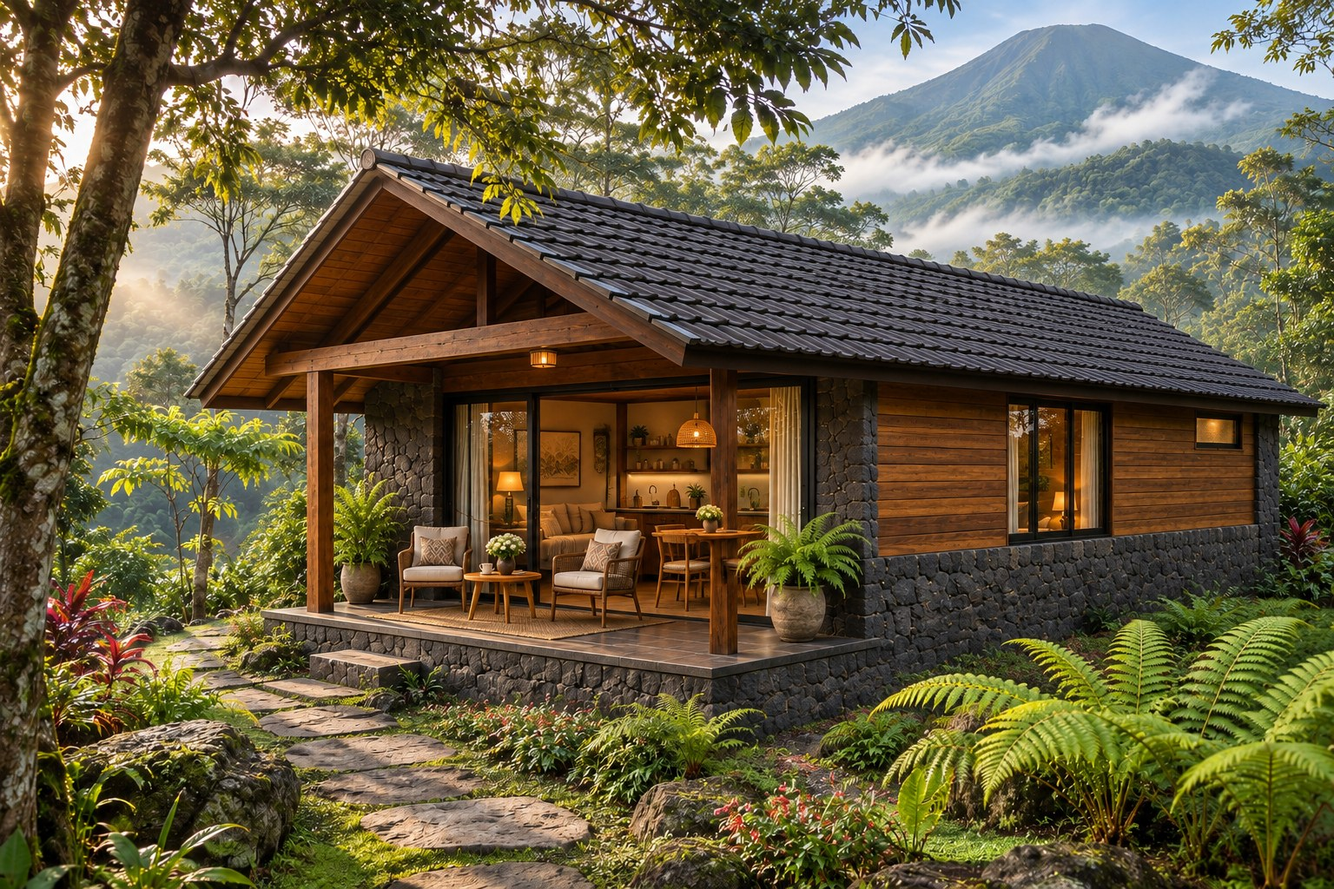
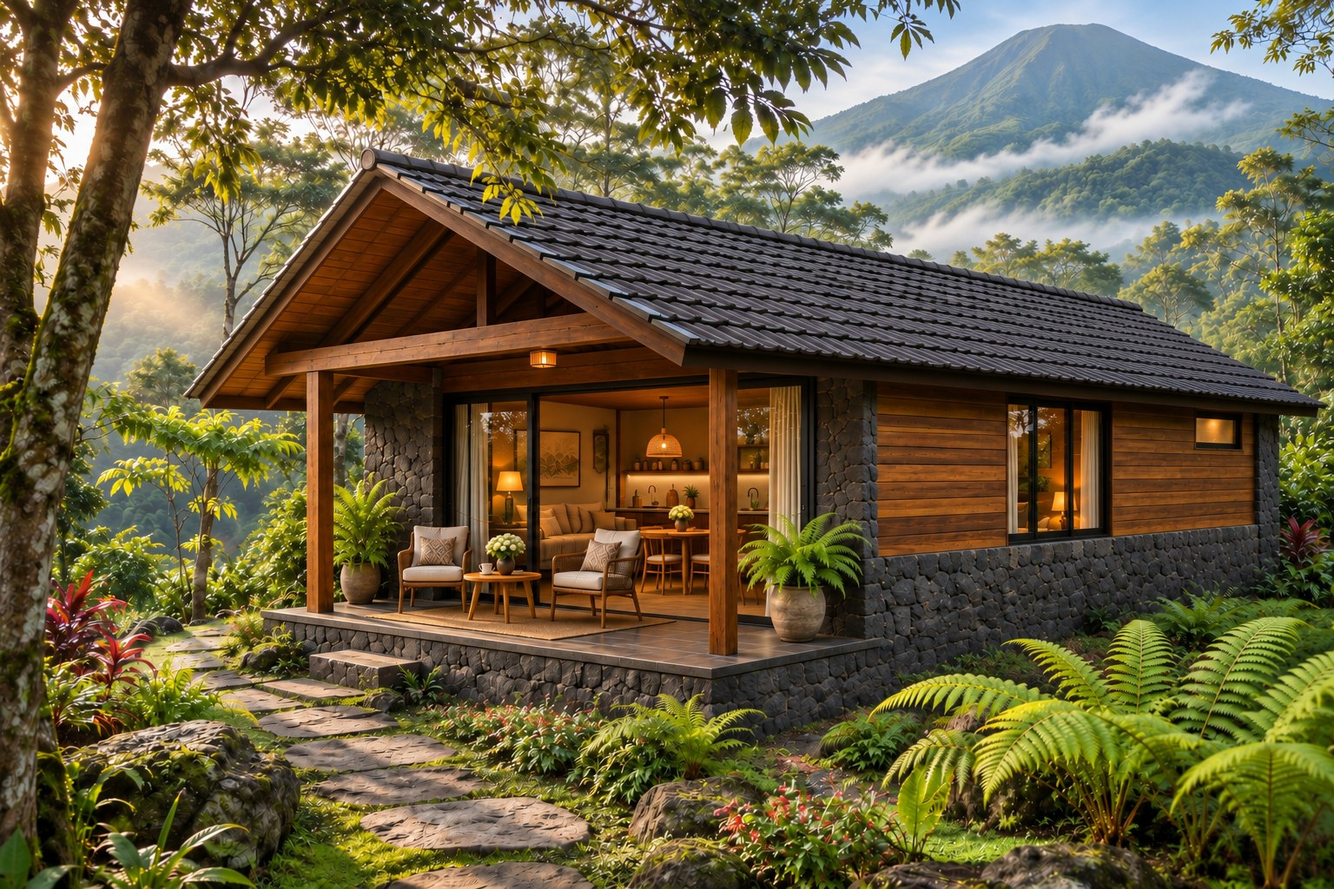
Refine Garden Cabin arrival and privacy; correct Mountain Cabin pendant

diff --git a/residences.html b/residences.html
@@ -1,1 +1,1 @@
-<!doctype html><html lang="en"><head><meta charset="utf-8"><meta name="viewport" content="width=device-width,initial-scale=1"><title>Cabins, lodges &amp; estates | Mount Paradise, Trawas</title><meta name="description" content="Explore eight private residence models across Cabins, Lodges and Estates at Mount Paradise. Ownership enquiries: sales@mountparadisejava.com."><meta name="theme-color" content="#20362d"><meta property="og:site_name" content="Mount Paradise"><meta property="og:title" content="Cabins, lodges &amp; estates | Mount Paradise"><meta property="og:description" content="Explore eight private residence models across Cabins, Lodges and Estates at Mount Paradise. Ownership enquiries: sales@mountparadisejava.com."><meta property="og:type" content="website"><meta property="og:image" content="https://mountparadisejava.com/assets/mount-paradise-social.jpg?v=5c3ecd9ac6cd"><meta property="og:image:secure_url" content="https://mountparadisejava.com/assets/mount-paradise-social.jpg?v=5c3ecd9ac6cd"><meta property="og:image:type" content="image/jpeg"><meta property="og:image:width" content="1200"><meta property="og:image:height" content="630"><meta property="og:image:alt" content="Mount Paradise Main Lodge, gardens and pool in the mountains of East Java"><meta property="og:url" content="https://mountparadisejava.com/residences.html"><meta name="twitter:card" content="summary_large_image"><meta name="twitter:title" content="Cabins, lodges &amp; estates | Mount Paradise"><meta name="twitter:description" content="Explore eight private residence models across Cabins, Lodges and Estates at Mount Paradise. Ownership enquiries: sales@mountparadisejava.com."><meta name="twitter:image" content="https://mountparadisejava.com/assets/mount-paradise-social.jpg?v=5c3ecd9ac6cd"><link rel="canonical" href="https://mountparadisejava.com/residences.html"><link rel="icon" href="assets/mark.svg" type="image/svg+xml"><link rel="stylesheet" href="styles.css?v=20261120-anchor"><script src="site.js?v=20261120-anchor" defer></script></head><body id="top" class="land-page"><a class="skip" href="#main">Skip to content</a><header><a class="brand" href="index.html" aria-label="Mount Paradise home"><svg viewBox="0 0 80 34" aria-hidden="true"><path d="M3 31 29 4 43 21 53 10 77 31M17 25 29 16 37 21"/></svg><span>MOUNT PARADISE<small>TRAWAS · EAST JAVA</small></span></a><button class="menu-toggle" aria-expanded="false" aria-controls="navigation">Menu <span aria-hidden="true">☰</span></button><nav id="navigation" aria-label="Main navigation"><details class="nav-group"><summary>Discover</summary><div class="nav-dropdown"><a href="index.html">Home</a><a href="discover.html">The Mount Paradise story</a><a href="arvorest-woods.html">Arvorest Woods</a></div></details><a href="main-lodge.html" >Main Lodge</a><a href="occasions.html" >Occasions</a><a href="residences.html" aria-current="page">Residences</a><a href="botanical-gardens.html" >Arboretum & Gardens</a><a href="wellness.html" >Wellness & Recreation</a><a href="800-club.html" >800 Club</a></nav></header><main id="main"><section class="page-heading"><p class="eyebrow">Private residences / Ownership collection</p><h1>Your place<br><em>in the mountains.</em></h1><p>Cabins. Lodges. Estates. Eight ways to make Mount Paradise your own.</p></section><section class="section collection-intro" id="discover"><div class="split"><h2>Choose your<br>way of living.</h2><p>Explore the residence models offered for ownership, from an intimate cabin to a generous private estate. Each architectural concept shares warm timber, volcanic stone and a private relationship with the garden. Final layouts, specifications and availability are discussed individually with our sales team.</p></div><div class="catalogue-tabs" aria-label="Residence categories"><a href="#cabins">Cabins <small>2 models</small></a><a href="#lodges">Lodges <small>4 models</small></a><a href="#estates">Estates <small>2 models</small></a></div><div class="model-menu"><a href="#mountain-cabin"><img src="assets/mountain-cabin.jpg?v=88aa7ac93ce2" alt="Mountain Cabin" loading="lazy"><strong>Mountain Cabin</strong><small>Cabins · Single-storey one-bedroom cabin</small></a><a href="#fern-retreat"><img src="assets/fern-retreat.jpg?v=9208c062b559" alt="Garden Cabin" loading="lazy"><strong>Garden Cabin</strong><small>Cabins · Single-storey one-bedroom garden cabin</small></a><a href="#garden-lodge"><img src="assets/signature-lodge.jpg?v=3d925ca0ffd6" alt="Garden Lodge" loading="lazy"><strong>Garden Lodge</strong><small>Lodges · Single-storey garden-facing home</small></a><a href="#orchard-family"><img src="assets/orchard-family.jpg?v=93da63747aae" alt="Courtyard Lodge" loading="lazy"><strong>Courtyard Lodge</strong><small>Lodges · Low courtyard arrangement with connected rooflines</small></a><a href="#vista-lodge"><img src="assets/vista.jpg?v=5d9e88c52cb4" alt="Vista Lodge" loading="lazy"><strong>Vista Lodge</strong><small>Lodges · Broad horizontal residence</small></a><a href="#forest-lodge"><img src="assets/forest-cinematic.jpg?v=696eef8ec716" alt="Forest Lodge" loading="lazy"><strong>Forest Lodge</strong><small>Lodges · Two-storey lodge with upper balcony</small></a><a href="#ridge-reserve"><img src="assets/ridge-reserve.jpg?v=6df47c1a2cef" alt="Ridge Estate" loading="lazy"><strong>Ridge Estate</strong><small>Estates · Split-level residence with a tall gable and upper balcony</small></a><a href="#paradise-estate"><img src="assets/paradise-estate.jpg?v=f716ccda8613" alt="Paradise Estate" loading="lazy"><strong>Paradise Estate</strong><small>Estates · Multiple connected residential wings with varied roof heights</small></a></div></section><section class="section collection-group" id="cabins"><p class="eyebrow">cabins</p><h2>A simpler foothold.</h2><p class="collection-lead">Compact private escapes with a garden and sheltered porch.</p><article class="collection-lodge" id="mountain-cabin"><figure class=""><a href="assets/mountain-cabin.jpg?v=88aa7ac93ce2" data-lightbox aria-label="Enlarge: Mountain Cabin"><img src="assets/mountain-cabin.jpg?v=88aa7ac93ce2" alt="Mountain Cabin" loading="lazy" width="1536" height="1024"></a></figure><div class="collection-details"><div><h3>Mountain Cabin</h3><p>A warm timber and volcanic-stone cabin with room to settle in. The enlarged concept brings together a cozy living area, kitchenette and small dining table, with a separate bedroom and enclosed bathroom behind. A sheltered porch keeps everyday life close to the mountain garden.</p><a class="text-link" href="mailto:sales@mountparadisejava.com?subject=Mount%20Paradise%20%7C%20Mountain%20Cabin">Enquire about Mountain Cabin</a></div><dl><div><dt>Architecture</dt><dd>Single-storey one-bedroom cabin</dd></div><div><dt>Garden</dt><dd>A small private fern garden</dd></div><div><dt>Pool</dt><dd>No private pool; shared swimming planned at the Main Lodge, subject to membership</dd></div><div><dt>Outdoor living</dt><dd>Sheltered porch with two lounge chairs</dd></div></dl></div></article><article class="collection-lodge" id="fern-retreat"><figure class=""><a href="assets/fern-retreat.jpg?v=9208c062b559" data-lightbox aria-label="Enlarge: Garden Cabin"><img src="assets/fern-retreat.jpg?v=9208c062b559" alt="Garden Cabin" loading="lazy" width="1536" height="1024"></a></figure><div class="collection-details"><div><h3>Garden Cabin</h3><p>A generous veranda and private lawn shape this light-filled garden home. The refreshed concept makes room for an open living area, a compact kitchen and indoor dining, with a private bedroom behind a full-height wall and an enclosed bathroom reached from an internal passage. The bedroom sits within a volcanic-stone enclosure on the left, while the garden path leads directly to the living entrance on the right. Warm timber and deep eaves preserve its intimate garden character.</p><a class="text-link" href="mailto:sales@mountparadisejava.com?subject=Mount%20Paradise%20%7C%20Garden%20Cabin">Enquire about Garden Cabin</a></div><dl><div><dt>Architecture</dt><dd>Single-storey one-bedroom garden cabin</dd></div><div><dt>Garden</dt><dd>Private lawn and a layered fern garden</dd></div><div><dt>Pool</dt><dd>Garden living without a pool in this concept</dd></div><div><dt>Outdoor living</dt><dd>Broad veranda with a lounge nook and outdoor table</dd></div></dl></div></article></section><section class="section collection-group" id="lodges"><p class="eyebrow">lodges</p><h2>Room to make it yours.</h2><p class="collection-lead">Garden, forest and courtyard homes with space for family life and entertaining.</p><article class="collection-lodge" id="garden-lodge"><figure class=""><a href="assets/signature-lodge.jpg?v=3d925ca0ffd6" data-lightbox aria-label="Enlarge: Garden Lodge"><img src="assets/signature-lodge.jpg?v=3d925ca0ffd6" alt="Garden Lodge" loading="lazy" width="1536" height="1024"></a></figure><div class="collection-details"><div><h3>Garden Lodge</h3><p>A broad sheltered veranda connects the living room to a private garden and pool. Natural stone, warm timber and deep eaves give this home its grounded character.</p><a class="text-link" href="mailto:sales@mountparadisejava.com?subject=Mount%20Paradise%20%7C%20Garden%20Lodge">Enquire about Garden Lodge</a></div><dl><div><dt>Architecture</dt><dd>Single-storey garden-facing home</dd></div><div><dt>Garden</dt><dd>Private planted garden and pool terrace</dd></div><div><dt>Pool</dt><dd>Private pool</dd></div><div><dt>Outdoor living</dt><dd>BBQ dining terrace</dd></div></dl></div></article><article class="collection-lodge" id="orchard-family"><figure class=""><a href="assets/orchard-family.jpg?v=93da63747aae" data-lightbox aria-label="Enlarge: Courtyard Lodge"><img src="assets/orchard-family.jpg?v=93da63747aae" alt="Courtyard Lodge" loading="lazy" width="1536" height="1024"></a></figure><div class="collection-details"><div><h3>Courtyard Lodge</h3><p>Two low wings embrace an open lawn, keeping the garden central to family life. A covered dining terrace sits between the living spaces, with a pool to one side and fruit trees along the borders.</p><a class="text-link" href="mailto:sales@mountparadisejava.com?subject=Mount%20Paradise%20%7C%20Courtyard%20Lodge">Enquire about Courtyard Lodge</a></div><dl><div><dt>Architecture</dt><dd>Low courtyard arrangement with connected rooflines</dd></div><div><dt>Garden</dt><dd>Broad courtyard lawn framed by fruit trees</dd></div><div><dt>Pool</dt><dd>A compact private swimming pool</dd></div><div><dt>Outdoor living</dt><dd>Dedicated BBQ grill, preparation counter and covered dining for six</dd></div></dl></div></article><article class="collection-lodge" id="vista-lodge"><figure class=""><a href="assets/vista.jpg?v=5d9e88c52cb4" data-lightbox aria-label="Enlarge: Vista Lodge"><img src="assets/vista.jpg?v=5d9e88c52cb4" alt="Vista Lodge" loading="lazy" width="1536" height="1024"></a></figure><div class="collection-details"><div><h3>Vista Lodge</h3><p>A long frontage and generous veranda place the outlook at the center of the home. The pool and garden run alongside the terrace, with room for a dedicated BBQ area and outdoor dining.</p><a class="text-link" href="mailto:sales@mountparadisejava.com?subject=Mount%20Paradise%20%7C%20Vista%20Lodge">Enquire about Vista Lodge</a></div><dl><div><dt>Architecture</dt><dd>Broad horizontal residence</dd></div><div><dt>Garden</dt><dd>Generous view-facing garden and terrace</dd></div><div><dt>Pool</dt><dd>Long private pool</dd></div><div><dt>Outdoor living</dt><dd>Dedicated BBQ and outdoor dining area</dd></div></dl></div></article><article class="collection-lodge" id="forest-lodge"><figure class=""><a href="assets/forest-cinematic.jpg?v=696eef8ec716" data-lightbox aria-label="Enlarge: Forest Lodge"><img src="assets/forest-cinematic.jpg?v=696eef8ec716" alt="Forest Lodge" loading="lazy" width="1536" height="1024"></a></figure><div class="collection-details"><div><h3>Forest Lodge</h3><p>A more vertical home among the trees. An upper balcony and a sheltered garden level offer separate places to gather and retreat, with a plunge pool within the planting.</p><a class="text-link" href="mailto:sales@mountparadisejava.com?subject=Mount%20Paradise%20%7C%20Forest%20Lodge">Enquire about Forest Lodge</a></div><dl><div><dt>Architecture</dt><dd>Two-storey lodge with upper balcony</dd></div><div><dt>Garden</dt><dd>Terraced garden with shaded corners</dd></div><div><dt>Pool</dt><dd>Private plunge pool</dd></div><div><dt>Outdoor living</dt><dd>Sheltered garden dining</dd></div></dl></div></article></section><section class="section collection-group" id="estates"><p class="eyebrow">estates</p><h2>A more expansive world.</h2><p class="collection-lead">Generous homes and grounds for longer stays and bringing everyone together.</p><article class="collection-lodge" id="ridge-reserve"><figure class=""><a href="assets/ridge-reserve.jpg?v=6df47c1a2cef" data-lightbox aria-label="Enlarge: Ridge Estate"><img src="assets/ridge-reserve.jpg?v=6df47c1a2cef" alt="Ridge Estate" loading="lazy" width="1536" height="1024"></a></figure><div class="collection-details"><div><h3>Ridge Estate</h3><p>A tall glazed gable and a lower stone wing create a more expressive mountain home. An upper balcony overlooks the grounds, while the main terrace opens to a generous lawn and a long pool facing the landscape.</p><a class="text-link" href="mailto:sales@mountparadisejava.com?subject=Mount%20Paradise%20%7C%20Ridge%20Estate">Enquire about Ridge Estate</a></div><dl><div><dt>Architecture</dt><dd>Split-level residence with a tall gable and upper balcony</dd></div><div><dt>Garden</dt><dd>Generous landscaped yard with distinct lounging and lawn areas</dd></div><div><dt>Pool</dt><dd>An elongated pool along the view terrace</dd></div><div><dt>Outdoor living</dt><dd>Covered outdoor kitchen with a built-in BBQ grill and dining for eight</dd></div></dl></div></article><article class="collection-lodge" id="paradise-estate"><figure class=""><a href="assets/paradise-estate.jpg?v=f716ccda8613" data-lightbox aria-label="Enlarge: Paradise Estate"><img src="assets/paradise-estate.jpg?v=f716ccda8613" alt="Paradise Estate" loading="lazy" width="1536" height="1024"></a></figure><div class="collection-details"><div><h3>Paradise Estate</h3><p>A private estate conceived around gathering, with substantial residential wings and a shared living hall. The grounds become a sequence of outdoor rooms: a broad lawn, a pool terrace, a dining space and a separate fire lounge.</p><a class="text-link" href="mailto:sales@mountparadisejava.com?subject=Mount%20Paradise%20%7C%20Paradise%20Estate">Enquire about Paradise Estate</a></div><dl><div><dt>Architecture</dt><dd>Multiple connected residential wings with varied roof heights</dd></div><div><dt>Garden</dt><dd>Expansive private grounds with a large usable lawn and mature planting</dd></div><div><dt>Pool</dt><dd>A long private pool with space to relax alongside</dd></div><div><dt>Outdoor living</dt><dd>Full outdoor kitchen with BBQ grill, dining for twelve and a separate fire lounge</dd></div></dl></div></article></section><section class="section contact-band"><div><p class="eyebrow">Residence ownership</p><h2>Find your<br>mountain home.</h2><p>For model availability, specifications and ownership enquiries, speak with the sales team.</p></div><div><a class="text-link" href="mailto:sales@mountparadisejava.com">sales@mountparadisejava.com</a></div></section></main><footer><div class="footer-grid"><div><p class="eyebrow">Mount Paradise / Trawas, East Java</p><h2>An elevated way<br>to stay, gather, and live.</h2><a class="text-link" href="mailto:info@mountparadisejava.com">info@mountparadisejava.com</a><br><a class="text-link" href="mailto:sales@mountparadisejava.com">Residence sales</a></div><div class="footer-links"><a href="discover.html">Discover</a><a href="main-lodge.html">Main Lodge</a><a href="occasions.html">Occasions</a><a href="residences.html">Residences</a><a href="botanical-gardens.html">Arboretum & Gardens</a><a href="wellness.html">Wellness & Recreation</a><a href="800-club.html">800 Club</a></div><div class="footer-links"><a href="index.html">Home</a><a href="arvorest-woods.html">Arvorest Woods</a><a href="botanical-gardens.html">Arboretum & gardens</a></div></div><p class="vision-note">A destination taking shape. Imagery presents architectural and landscape concepts; proposed facilities and experiences are part of the overall vision.</p><div class="footer-bottom"><span>© 2026 Mount Paradise</span><span>MountParadiseJava.com</span><a href="#top">Back to top</a></div></footer><dialog class="lightbox" aria-label="Image viewer"><button aria-label="Close image" class="close-lightbox">Close ×</button><img alt=""></dialog></body></html>
+<!doctype html><html lang="en"><head><meta charset="utf-8"><meta name="viewport" content="width=device-width,initial-scale=1"><title>Cabins, lodges &amp; estates | Mount Paradise, Trawas</title><meta name="description" content="Explore eight private residence models across Cabins, Lodges and Estates at Mount Paradise. Ownership enquiries: sales@mountparadisejava.com."><meta name="theme-color" content="#20362d"><meta property="og:site_name" content="Mount Paradise"><meta property="og:title" content="Cabins, lodges &amp; estates | Mount Paradise"><meta property="og:description" content="Explore eight private residence models across Cabins, Lodges and Estates at Mount Paradise. Ownership enquiries: sales@mountparadisejava.com."><meta property="og:type" content="website"><meta property="og:image" content="https://mountparadisejava.com/assets/mount-paradise-social.jpg?v=5c3ecd9ac6cd"><meta property="og:image:secure_url" content="https://mountparadisejava.com/assets/mount-paradise-social.jpg?v=5c3ecd9ac6cd"><meta property="og:image:type" content="image/jpeg"><meta property="og:image:width" content="1200"><meta property="og:image:height" content="630"><meta property="og:image:alt" content="Mount Paradise Main Lodge, gardens and pool in the mountains of East Java"><meta property="og:url" content="https://mountparadisejava.com/residences.html"><meta name="twitter:card" content="summary_large_image"><meta name="twitter:title" content="Cabins, lodges &amp; estates | Mount Paradise"><meta name="twitter:description" content="Explore eight private residence models across Cabins, Lodges and Estates at Mount Paradise. Ownership enquiries: sales@mountparadisejava.com."><meta name="twitter:image" content="https://mountparadisejava.com/assets/mount-paradise-social.jpg?v=5c3ecd9ac6cd"><link rel="canonical" href="https://mountparadisejava.com/residences.html"><link rel="icon" href="assets/mark.svg" type="image/svg+xml"><link rel="stylesheet" href="styles.css?v=20261120-anchor"><script src="site.js?v=20261120-anchor" defer></script></head><body id="top" class="land-page"><a class="skip" href="#main">Skip to content</a><header><a class="brand" href="index.html" aria-label="Mount Paradise home"><svg viewBox="0 0 80 34" aria-hidden="true"><path d="M3 31 29 4 43 21 53 10 77 31M17 25 29 16 37 21"/></svg><span>MOUNT PARADISE<small>TRAWAS · EAST JAVA</small></span></a><button class="menu-toggle" aria-expanded="false" aria-controls="navigation">Menu <span aria-hidden="true">☰</span></button><nav id="navigation" aria-label="Main navigation"><details class="nav-group"><summary>Discover</summary><div class="nav-dropdown"><a href="index.html">Home</a><a href="discover.html">The Mount Paradise story</a><a href="arvorest-woods.html">Arvorest Woods</a></div></details><a href="main-lodge.html" >Main Lodge</a><a href="occasions.html" >Occasions</a><a href="residences.html" aria-current="page">Residences</a><a href="botanical-gardens.html" >Arboretum & Gardens</a><a href="wellness.html" >Wellness & Recreation</a><a href="800-club.html" >800 Club</a></nav></header><main id="main"><section class="page-heading"><p class="eyebrow">Private residences / Ownership collection</p><h1>Your place<br><em>in the mountains.</em></h1><p>Cabins. Lodges. Estates. Eight ways to make Mount Paradise your own.</p></section><section class="section collection-intro" id="discover"><div class="split"><h2>Choose your<br>way of living.</h2><p>Explore the residence models offered for ownership, from an intimate cabin to a generous private estate. Each architectural concept shares warm timber, volcanic stone and a private relationship with the garden. Final layouts, specifications and availability are discussed individually with our sales team.</p></div><div class="catalogue-tabs" aria-label="Residence categories"><a href="#cabins">Cabins <small>2 models</small></a><a href="#lodges">Lodges <small>4 models</small></a><a href="#estates">Estates <small>2 models</small></a></div><div class="model-menu"><a href="#mountain-cabin"><img src="assets/mountain-cabin.jpg?v=bcc466d36d85" alt="Mountain Cabin" loading="lazy"><strong>Mountain Cabin</strong><small>Cabins · Single-storey one-bedroom cabin</small></a><a href="#fern-retreat"><img src="assets/fern-retreat.jpg?v=429e02c01bad" alt="Garden Cabin" loading="lazy"><strong>Garden Cabin</strong><small>Cabins · Single-storey one-bedroom garden cabin</small></a><a href="#garden-lodge"><img src="assets/signature-lodge.jpg?v=3d925ca0ffd6" alt="Garden Lodge" loading="lazy"><strong>Garden Lodge</strong><small>Lodges · Single-storey garden-facing home</small></a><a href="#orchard-family"><img src="assets/orchard-family.jpg?v=93da63747aae" alt="Courtyard Lodge" loading="lazy"><strong>Courtyard Lodge</strong><small>Lodges · Low courtyard arrangement with connected rooflines</small></a><a href="#vista-lodge"><img src="assets/vista.jpg?v=5d9e88c52cb4" alt="Vista Lodge" loading="lazy"><strong>Vista Lodge</strong><small>Lodges · Broad horizontal residence</small></a><a href="#forest-lodge"><img src="assets/forest-cinematic.jpg?v=696eef8ec716" alt="Forest Lodge" loading="lazy"><strong>Forest Lodge</strong><small>Lodges · Two-storey lodge with upper balcony</small></a><a href="#ridge-reserve"><img src="assets/ridge-reserve.jpg?v=6df47c1a2cef" alt="Ridge Estate" loading="lazy"><strong>Ridge Estate</strong><small>Estates · Split-level residence with a tall gable and upper balcony</small></a><a href="#paradise-estate"><img src="assets/paradise-estate.jpg?v=f716ccda8613" alt="Paradise Estate" loading="lazy"><strong>Paradise Estate</strong><small>Estates · Multiple connected residential wings with varied roof heights</small></a></div></section><section class="section collection-group" id="cabins"><p class="eyebrow">cabins</p><h2>A simpler foothold.</h2><p class="collection-lead">Compact private escapes with a garden and sheltered porch.</p><article class="collection-lodge" id="mountain-cabin"><figure class=""><a href="assets/mountain-cabin.jpg?v=bcc466d36d85" data-lightbox aria-label="Enlarge: Mountain Cabin"><img src="assets/mountain-cabin.jpg?v=bcc466d36d85" alt="Mountain Cabin" loading="lazy" width="1536" height="1024"></a></figure><div class="collection-details"><div><h3>Mountain Cabin</h3><p>A warm timber and volcanic-stone cabin with room to settle in. The enlarged concept brings together a cozy living area, kitchenette and small dining table, with a separate bedroom and enclosed bathroom behind. A sheltered porch keeps everyday life close to the mountain garden.</p><a class="text-link" href="mailto:sales@mountparadisejava.com?subject=Mount%20Paradise%20%7C%20Mountain%20Cabin">Enquire about Mountain Cabin</a></div><dl><div><dt>Architecture</dt><dd>Single-storey one-bedroom cabin</dd></div><div><dt>Garden</dt><dd>A small private fern garden</dd></div><div><dt>Pool</dt><dd>No private pool; shared swimming planned at the Main Lodge, subject to membership</dd></div><div><dt>Outdoor living</dt><dd>Sheltered porch with two lounge chairs</dd></div></dl></div></article><article class="collection-lodge" id="fern-retreat"><figure class=""><a href="assets/fern-retreat.jpg?v=429e02c01bad" data-lightbox aria-label="Enlarge: Garden Cabin"><img src="assets/fern-retreat.jpg?v=429e02c01bad" alt="Garden Cabin" loading="lazy" width="1536" height="1024"></a></figure><div class="collection-details"><div><h3>Garden Cabin</h3><p>A generous veranda and private lawn shape this light-filled garden home. The refreshed concept makes room for an open living area, a compact kitchen and indoor dining, with a private bedroom behind a full-height wall and an enclosed bathroom reached from an internal passage. The bedroom sits within a volcanic-stone enclosure on the left, with private garden-facing windows, while a curving path leads to broad steps and the main living entrance. Warm timber and deep eaves preserve its intimate garden character.</p><a class="text-link" href="mailto:sales@mountparadisejava.com?subject=Mount%20Paradise%20%7C%20Garden%20Cabin">Enquire about Garden Cabin</a></div><dl><div><dt>Architecture</dt><dd>Single-storey one-bedroom garden cabin</dd></div><div><dt>Garden</dt><dd>Private lawn and a layered fern garden</dd></div><div><dt>Pool</dt><dd>Garden living without a pool in this concept</dd></div><div><dt>Outdoor living</dt><dd>Broad veranda with a lounge nook and outdoor table</dd></div></dl></div></article></section><section class="section collection-group" id="lodges"><p class="eyebrow">lodges</p><h2>Room to make it yours.</h2><p class="collection-lead">Garden, forest and courtyard homes with space for family life and entertaining.</p><article class="collection-lodge" id="garden-lodge"><figure class=""><a href="assets/signature-lodge.jpg?v=3d925ca0ffd6" data-lightbox aria-label="Enlarge: Garden Lodge"><img src="assets/signature-lodge.jpg?v=3d925ca0ffd6" alt="Garden Lodge" loading="lazy" width="1536" height="1024"></a></figure><div class="collection-details"><div><h3>Garden Lodge</h3><p>A broad sheltered veranda connects the living room to a private garden and pool. Natural stone, warm timber and deep eaves give this home its grounded character.</p><a class="text-link" href="mailto:sales@mountparadisejava.com?subject=Mount%20Paradise%20%7C%20Garden%20Lodge">Enquire about Garden Lodge</a></div><dl><div><dt>Architecture</dt><dd>Single-storey garden-facing home</dd></div><div><dt>Garden</dt><dd>Private planted garden and pool terrace</dd></div><div><dt>Pool</dt><dd>Private pool</dd></div><div><dt>Outdoor living</dt><dd>BBQ dining terrace</dd></div></dl></div></article><article class="collection-lodge" id="orchard-family"><figure class=""><a href="assets/orchard-family.jpg?v=93da63747aae" data-lightbox aria-label="Enlarge: Courtyard Lodge"><img src="assets/orchard-family.jpg?v=93da63747aae" alt="Courtyard Lodge" loading="lazy" width="1536" height="1024"></a></figure><div class="collection-details"><div><h3>Courtyard Lodge</h3><p>Two low wings embrace an open lawn, keeping the garden central to family life. A covered dining terrace sits between the living spaces, with a pool to one side and fruit trees along the borders.</p><a class="text-link" href="mailto:sales@mountparadisejava.com?subject=Mount%20Paradise%20%7C%20Courtyard%20Lodge">Enquire about Courtyard Lodge</a></div><dl><div><dt>Architecture</dt><dd>Low courtyard arrangement with connected rooflines</dd></div><div><dt>Garden</dt><dd>Broad courtyard lawn framed by fruit trees</dd></div><div><dt>Pool</dt><dd>A compact private swimming pool</dd></div><div><dt>Outdoor living</dt><dd>Dedicated BBQ grill, preparation counter and covered dining for six</dd></div></dl></div></article><article class="collection-lodge" id="vista-lodge"><figure class=""><a href="assets/vista.jpg?v=5d9e88c52cb4" data-lightbox aria-label="Enlarge: Vista Lodge"><img src="assets/vista.jpg?v=5d9e88c52cb4" alt="Vista Lodge" loading="lazy" width="1536" height="1024"></a></figure><div class="collection-details"><div><h3>Vista Lodge</h3><p>A long frontage and generous veranda place the outlook at the center of the home. The pool and garden run alongside the terrace, with room for a dedicated BBQ area and outdoor dining.</p><a class="text-link" href="mailto:sales@mountparadisejava.com?subject=Mount%20Paradise%20%7C%20Vista%20Lodge">Enquire about Vista Lodge</a></div><dl><div><dt>Architecture</dt><dd>Broad horizontal residence</dd></div><div><dt>Garden</dt><dd>Generous view-facing garden and terrace</dd></div><div><dt>Pool</dt><dd>Long private pool</dd></div><div><dt>Outdoor living</dt><dd>Dedicated BBQ and outdoor dining area</dd></div></dl></div></article><article class="collection-lodge" id="forest-lodge"><figure class=""><a href="assets/forest-cinematic.jpg?v=696eef8ec716" data-lightbox aria-label="Enlarge: Forest Lodge"><img src="assets/forest-cinematic.jpg?v=696eef8ec716" alt="Forest Lodge" loading="lazy" width="1536" height="1024"></a></figure><div class="collection-details"><div><h3>Forest Lodge</h3><p>A more vertical home among the trees. An upper balcony and a sheltered garden level offer separate places to gather and retreat, with a plunge pool within the planting.</p><a class="text-link" href="mailto:sales@mountparadisejava.com?subject=Mount%20Paradise%20%7C%20Forest%20Lodge">Enquire about Forest Lodge</a></div><dl><div><dt>Architecture</dt><dd>Two-storey lodge with upper balcony</dd></div><div><dt>Garden</dt><dd>Terraced garden with shaded corners</dd></div><div><dt>Pool</dt><dd>Private plunge pool</dd></div><div><dt>Outdoor living</dt><dd>Sheltered garden dining</dd></div></dl></div></article></section><section class="section collection-group" id="estates"><p class="eyebrow">estates</p><h2>A more expansive world.</h2><p class="collection-lead">Generous homes and grounds for longer stays and bringing everyone together.</p><article class="collection-lodge" id="ridge-reserve"><figure class=""><a href="assets/ridge-reserve.jpg?v=6df47c1a2cef" data-lightbox aria-label="Enlarge: Ridge Estate"><img src="assets/ridge-reserve.jpg?v=6df47c1a2cef" alt="Ridge Estate" loading="lazy" width="1536" height="1024"></a></figure><div class="collection-details"><div><h3>Ridge Estate</h3><p>A tall glazed gable and a lower stone wing create a more expressive mountain home. An upper balcony overlooks the grounds, while the main terrace opens to a generous lawn and a long pool facing the landscape.</p><a class="text-link" href="mailto:sales@mountparadisejava.com?subject=Mount%20Paradise%20%7C%20Ridge%20Estate">Enquire about Ridge Estate</a></div><dl><div><dt>Architecture</dt><dd>Split-level residence with a tall gable and upper balcony</dd></div><div><dt>Garden</dt><dd>Generous landscaped yard with distinct lounging and lawn areas</dd></div><div><dt>Pool</dt><dd>An elongated pool along the view terrace</dd></div><div><dt>Outdoor living</dt><dd>Covered outdoor kitchen with a built-in BBQ grill and dining for eight</dd></div></dl></div></article><article class="collection-lodge" id="paradise-estate"><figure class=""><a href="assets/paradise-estate.jpg?v=f716ccda8613" data-lightbox aria-label="Enlarge: Paradise Estate"><img src="assets/paradise-estate.jpg?v=f716ccda8613" alt="Paradise Estate" loading="lazy" width="1536" height="1024"></a></figure><div class="collection-details"><div><h3>Paradise Estate</h3><p>A private estate conceived around gathering, with substantial residential wings and a shared living hall. The grounds become a sequence of outdoor rooms: a broad lawn, a pool terrace, a dining space and a separate fire lounge.</p><a class="text-link" href="mailto:sales@mountparadisejava.com?subject=Mount%20Paradise%20%7C%20Paradise%20Estate">Enquire about Paradise Estate</a></div><dl><div><dt>Architecture</dt><dd>Multiple connected residential wings with varied roof heights</dd></div><div><dt>Garden</dt><dd>Expansive private grounds with a large usable lawn and mature planting</dd></div><div><dt>Pool</dt><dd>A long private pool with space to relax alongside</dd></div><div><dt>Outdoor living</dt><dd>Full outdoor kitchen with BBQ grill, dining for twelve and a separate fire lounge</dd></div></dl></div></article></section><section class="section contact-band"><div><p class="eyebrow">Residence ownership</p><h2>Find your<br>mountain home.</h2><p>For model availability, specifications and ownership enquiries, speak with the sales team.</p></div><div><a class="text-link" href="mailto:sales@mountparadisejava.com">sales@mountparadisejava.com</a></div></section></main><footer><div class="footer-grid"><div><p class="eyebrow">Mount Paradise / Trawas, East Java</p><h2>An elevated way<br>to stay, gather, and live.</h2><a class="text-link" href="mailto:info@mountparadisejava.com">info@mountparadisejava.com</a><br><a class="text-link" href="mailto:sales@mountparadisejava.com">Residence sales</a></div><div class="footer-links"><a href="discover.html">Discover</a><a href="main-lodge.html">Main Lodge</a><a href="occasions.html">Occasions</a><a href="residences.html">Residences</a><a href="botanical-gardens.html">Arboretum & Gardens</a><a href="wellness.html">Wellness & Recreation</a><a href="800-club.html">800 Club</a></div><div class="footer-links"><a href="index.html">Home</a><a href="arvorest-woods.html">Arvorest Woods</a><a href="botanical-gardens.html">Arboretum & gardens</a></div></div><p class="vision-note">A destination taking shape. Imagery presents architectural and landscape concepts; proposed facilities and experiences are part of the overall vision.</p><div class="footer-bottom"><span>© 2026 Mount Paradise</span><span>MountParadiseJava.com</span><a href="#top">Back to top</a></div></footer><dialog class="lightbox" aria-label="Image viewer"><button aria-label="Close image" class="close-lightbox">Close ×</button><img alt=""></dialog></body></html>

diff --git a/scripts/vision_revision.py b/scripts/vision_revision.py
@@ -67,7 +67,7 @@ for model in collection:
  if model['slug']=='mountain-cabin':
   model.update(form='Single-storey one-bedroom cabin', desc='A warm timber and volcanic-stone cabin with room to settle in. The enlarged concept brings together a cozy living area, kitchenette and small dining table, with a separate bedroom and enclosed bathroom behind. A sheltered porch keeps everyday life close to the mountain garden.', entertaining='Sheltered porch with two lounge chairs', alt='Enlarged Mountain Cabin with timber cladding, stone base, a sheltered porch and kitchen-dining space visible inside')
  elif model['slug']=='fern-retreat':
-  model.update(form='Single-storey one-bedroom garden cabin', desc='A generous veranda and private lawn shape this light-filled garden home. The refreshed concept makes room for an open living area, a compact kitchen and indoor dining, with a private bedroom behind a full-height wall and an enclosed bathroom reached from an internal passage. The bedroom sits within a volcanic-stone enclosure on the left, while the garden path leads directly to the living entrance on the right. Warm timber and deep eaves preserve its intimate garden character.', entertaining='Broad veranda with a lounge nook and outdoor table', alt='Garden Cabin with a broad veranda, private stone bedroom on the left and glazed living, kitchen and dining space entered from the right')
+  model.update(form='Single-storey one-bedroom garden cabin', desc='A generous veranda and private lawn shape this light-filled garden home. The refreshed concept makes room for an open living area, a compact kitchen and indoor dining, with a private bedroom behind a full-height wall and an enclosed bathroom reached from an internal passage. The bedroom sits within a volcanic-stone enclosure on the left, with private garden-facing windows, while a curving path leads to broad steps and the main living entrance. Warm timber and deep eaves preserve its intimate garden character.', entertaining='Broad veranda with a lounge nook and outdoor table', alt='Garden Cabin with a broad veranda, private stone bedroom windows on the left and a central approach to the glazed living, kitchen and dining space at golden hour')
 collection.sort(key=lambda t: ['mountain-cabin','fern-retreat','garden-lodge','orchard-family','vista-lodge','forest-lodge','ridge-reserve','paradise-estate'].index(t['slug']))
 res='<section class="page-heading"><p class="eyebrow">Private residences / Ownership collection</p><h1>Your place<br><em>in the mountains.</em></h1><p>Cabins. Lodges. Estates. Eight ways to make Mount Paradise your own.</p></section><section class="section collection-intro" id="discover"><div class="split"><h2>Choose your<br>way of living.</h2><p>Explore the residence models offered for ownership, from an intimate cabin to a generous private estate. Each architectural concept shares warm timber, volcanic stone and a private relationship with the garden. Final layouts, specifications and availability are discussed individually with our sales team.</p></div><div class="catalogue-tabs" aria-label="Residence categories"><a href="#cabins">Cabins <small>2 models</small></a><a href="#lodges">Lodges <small>4 models</small></a><a href="#estates">Estates <small>2 models</small></a></div><div class="model-menu">'
 for t in collection:

diff --git a/CABIN-DESIGN-BRIEF.md b/CABIN-DESIGN-BRIEF.md
@@ -12,7 +12,7 @@ Retain the simple gabled roof, horizontal timber cladding, volcanic-stone base a
 
 ## Garden Cabin
 
-Selected direction: Concept A, a simple rectangular cabin with a broad veranda and continuous tiled roof. The private bedroom is on the LEFT within a volcanic-stone enclosure. Living, compact kitchen and indoor dining are on the RIGHT. The approach path arrives from the right directly into the living area, avoiding circulation past the bedroom. The bathroom belongs behind the bedroom, accessed from a shared internal passage.
+Selected direction: Concept A, a simple rectangular cabin with a broad veranda and continuous tiled roof. The private bedroom is on the LEFT within a volcanic-stone enclosure. Living, compact kitchen and indoor dining are on the RIGHT. The curving approach aligns directly with broad steps and the main living entrance. Bedroom frontage uses sill-height windows with stone below, not external bedroom doors; access is internal, avoiding circulation past the bedroom. The bathroom belongs behind the bedroom, accessed from a shared internal passage.
 
 Working area target remains approximately 75 m² gross enclosed plus a 22 m² veranda. The earlier [spatial study](design/garden-cabin-layout.pdf) is superseded in orientation: it showed the bedroom on the right. Revise that study to match selected Concept A before architectural development. Its dimensions remain exploratory, not approved construction dimensions.
 
